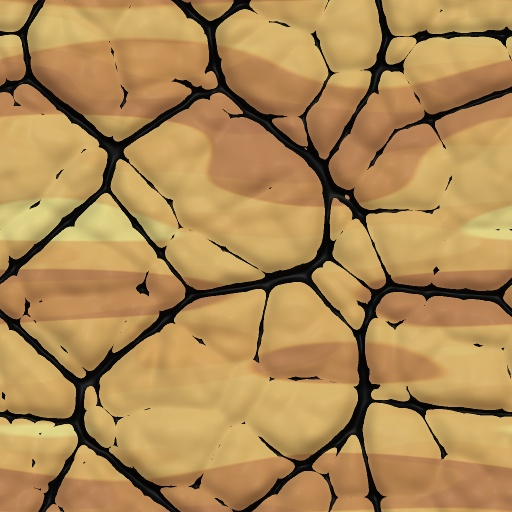
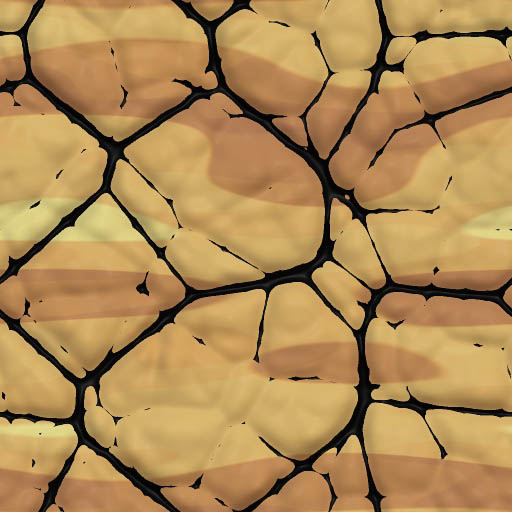
- created 3D-Effect

diff --git a/src/de/gemo/game/terrain/entities/World.java b/src/de/gemo/game/terrain/entities/World.java
@@ -32,7 +32,7 @@ public class World implements IRenderObject {
 
     public void createWorld(int width, int height) {
         try {
-            this.backgroundTexture = new TexData("resources/terrain/rock_terrain.jpg");
+            this.backgroundTexture = new TexData("resources/terrain/wood_terrain.jpg");
             this.grassTexture = new TexData("resources/grasses/grass.png");
         } catch (IOException e) {
             e.printStackTrace();
@@ -48,7 +48,7 @@ public class World implements IRenderObject {
 
         this.createPerlinWorld(terrainData);
         this.paintTerrainTexture(terrainData);
-        this.createGrass();
+        this.createEffects();
         this.createTexture();
     }
 
@@ -131,36 +131,119 @@ public class World implements IRenderObject {
                     this.textureBuffer.put(this.backgroundTexture.getR(x + (int) this.terrainSettings.getOffsetX(), y + (int) this.terrainSettings.getOffsetY()));
                     this.textureBuffer.put(this.backgroundTexture.getG(x + (int) this.terrainSettings.getOffsetX(), y + (int) this.terrainSettings.getOffsetY()));
                     this.textureBuffer.put(this.backgroundTexture.getB(x + (int) this.terrainSettings.getOffsetX(), y + (int) this.terrainSettings.getOffsetY()));
-                    this.textureBuffer.put(this.backgroundTexture.getA(x + (int) this.terrainSettings.getOffsetX(), y + (int) this.terrainSettings.getOffsetY()));
+                    this.textureBuffer.put((byte) 255);
                     this.textureBuffer.position(0);
                 }
             }
         }
     }
 
-    private void createGrass() {
-        List<Integer> xList = new ArrayList<Integer>();
-        List<Integer> yList = new ArrayList<Integer>();
+    private byte getBlendedValue(byte background, byte foreground, float alphaForeground) {
+        float floatBackground = (float) background / 255f;
+        float alphaBackground = 1f;
+        float floatForeground = (float) foreground / 255f;
+        // if (alphaForeground < 0) {
+        // return (byte) 255;
+        // }
+        // if (alphaForeground > 1) {
+        // return (byte) 255;
+        // }
+        float result = floatForeground * alphaForeground + floatBackground * alphaBackground * (1f - alphaForeground);
+        return (byte) (result * 255f);
+        // return (byte) ((background + foreground * alphaForeground) / 2f);
+    }
+
+    private void createEffects() {
+        List<Integer> xListGrass = new ArrayList<Integer>();
+        List<Integer> yListGrass = new ArrayList<Integer>();
+
+        List<Integer> xList3DRight = new ArrayList<Integer>();
+        List<Integer> yList3DRight = new ArrayList<Integer>();
+
+        List<Integer> xList3DLeft = new ArrayList<Integer>();
+        List<Integer> yList3DLeft = new ArrayList<Integer>();
+
         for (int y = this.getHeight() - 1; y >= 0; y--) {
             for (int x = 0; x < this.getWidth(); x++) {
                 boolean placeGrass_1 = !this.isPixelSolid(x, y - 1) && this.isPixelSolid(x, y);
                 if (placeGrass_1) {
-                    xList.add(x);
-                    yList.add(y);
+                    xListGrass.add(x);
+                    yListGrass.add(y);
+                }
+
+                boolean threeDEffectRight = (this.isPixelSolid(x, y) && !this.isPixelSolid(x + 1, y));
+                if (threeDEffectRight) {
+                    Vector2f normal = this.getNormal(x, y);
+                    if (Math.abs(normal.getY()) < 0.95d) {
+                        xList3DRight.add(x);
+                        yList3DRight.add(y);
+                    }
+                }
+
+                boolean threeDEffectLeft = (this.isPixelSolid(x, y) && !this.isPixelSolid(x - 1, y));
+                if (threeDEffectLeft) {
+                    Vector2f normal = this.getNormal(x, y);
+                    if (Math.abs(normal.getY()) < 0.95d) {
+                        xList3DLeft.add(x);
+                        yList3DLeft.add(y);
+                    }
                 }
             }
         }
 
-        for (int i = 0; i < xList.size(); i++) {
-            int x = xList.get(i);
-            int y = yList.get(i);
+        // 3D-Effect RIGHT
+        for (int i = 0; i < xList3DRight.size(); i++) {
+            int x = xList3DRight.get(i);
+            int y = yList3DRight.get(i);
+            for (int offX = 0; offX < 11; offX++) {
+                this.textureBuffer.position(this.getBufferPosition(x - offX, y));
+                byte r = this.textureBuffer.get();
+                byte g = this.textureBuffer.get();
+                byte b = this.textureBuffer.get();
+                this.textureBuffer.position(this.getBufferPosition(x - offX, y));
+                float alpha = 0.85f - (0.08f * offX);
+                r = this.getBlendedValue(r, (byte) (30), alpha);
+                g = this.getBlendedValue(g, (byte) (30), alpha);
+                b = this.getBlendedValue(b, (byte) (30), alpha);
+                this.textureBuffer.put(r);
+                this.textureBuffer.put(g);
+                this.textureBuffer.put(b);
+                this.textureBuffer.position(0);
+            }
+        }
+
+        // 3D-Effect LEFT
+        for (int i = 0; i < xList3DLeft.size(); i++) {
+            int x = xList3DLeft.get(i);
+            int y = yList3DLeft.get(i);
+            for (int offX = 0; offX < 6; offX++) {
+                this.textureBuffer.position(this.getBufferPosition(x + offX, y));
+                byte r = this.textureBuffer.get();
+                byte g = this.textureBuffer.get();
+                byte b = this.textureBuffer.get();
+                this.textureBuffer.position(this.getBufferPosition(x + offX, y));
+                float alpha = (0.02f * offX);
+                r = this.getBlendedValue(r, (byte) (255), alpha);
+                g = this.getBlendedValue(g, (byte) (255), alpha);
+                b = this.getBlendedValue(b, (byte) (255), alpha);
+                this.textureBuffer.put(r);
+                this.textureBuffer.put(g);
+                this.textureBuffer.put(b);
+                this.textureBuffer.position(0);
+            }
+        }
+
+        // grass
+        for (int i = 0; i < xListGrass.size(); i++) {
+            int x = xListGrass.get(i);
+            int y = yListGrass.get(i);
             for (int offY = 0; offY < this.grassTexture.getHeight(); offY++) {
                 if (!this.grassTexture.isFuchsia(x, offY)) {
                     this.textureBuffer.position(this.getBufferPosition(x, y + offY - 8));
                     this.textureBuffer.put(this.grassTexture.getR(x, offY));
                     this.textureBuffer.put(this.grassTexture.getG(x, offY));
                     this.textureBuffer.put(this.grassTexture.getB(x, offY));
-                    this.textureBuffer.put(this.grassTexture.getA(x, offY));
+                    this.textureBuffer.put((byte) 255);
                     this.textureBuffer.position(0);
                 }
             }
@@ -227,7 +310,7 @@ public class World implements IRenderObject {
                         this.textureBuffer.put(this.backgroundTexture.getR(mX + (int) this.terrainSettings.getOffsetX(), mY + (int) this.terrainSettings.getOffsetY()));
                         this.textureBuffer.put(this.backgroundTexture.getG(mX + (int) this.terrainSettings.getOffsetX(), mY + (int) this.terrainSettings.getOffsetY()));
                         this.textureBuffer.put(this.backgroundTexture.getB(mX + (int) this.terrainSettings.getOffsetX(), mY + (int) this.terrainSettings.getOffsetY()));
-                        this.textureBuffer.put(this.backgroundTexture.getA(mX + (int) this.terrainSettings.getOffsetX(), mY + (int) this.terrainSettings.getOffsetY()));
+                        this.textureBuffer.put((byte) 255);
                         this.textureBuffer.position(0);
                     }
                 }

diff --git a/src/de/gemo/game/terrain/utils/TexData.java b/src/de/gemo/game/terrain/utils/TexData.java
@@ -1,6 +1,5 @@
 package de.gemo.game.terrain.utils;
 
-import java.awt.*;
 import java.awt.image.*;
 import java.io.*;
 
@@ -8,7 +7,7 @@ import javax.imageio.*;
 
 public class TexData {
 
-    private Color[][] rgb;
+    private int[][] rgb;
 
     public TexData(String fileName) throws IOException {
         BufferedImage image = ImageIO.read(new File(fileName));
@@ -16,15 +15,15 @@ public class TexData {
     }
 
     private void loadData(BufferedImage image) {
-        this.rgb = new Color[image.getWidth()][image.getHeight()];
+        this.rgb = new int[image.getWidth()][image.getHeight()];
         for (int y = 0; y < this.rgb[0].length; y++) {
             for (int x = 0; x < this.rgb.length; x++) {
-                this.rgb[x][y] = new Color(image.getRGB(x, y));
+                this.rgb[x][y] = image.getRGB(x, y);
             }
         }
     }
 
-    public Color getColor(int x, int y) {
+    public int getRGB(int x, int y) {
         x = x % rgb.length;
         y = y % rgb[0].length;
         return this.rgb[x][y];
@@ -33,25 +32,22 @@ public class TexData {
     public byte getR(int x, int y) {
         x = x % rgb.length;
         y = y % rgb[0].length;
-        return (byte) this.rgb[x][y].getRed();
+        int red = (this.rgb[x][y] >> 16) & 0xFF;
+        return (byte) (red);
     }
 
     public byte getG(int x, int y) {
         x = x % rgb.length;
         y = y % rgb[0].length;
-        return (byte) this.rgb[x][y].getGreen();
+        int green = (this.rgb[x][y] >> 8) & 0xFF;
+        return (byte) green;
     }
 
     public byte getB(int x, int y) {
         x = x % rgb.length;
         y = y % rgb[0].length;
-        return (byte) this.rgb[x][y].getBlue();
-    }
-
-    public byte getA(int x, int y) {
-        x = x % rgb.length;
-        y = y % rgb[0].length;
-        return (byte) this.rgb[x][y].getAlpha();
+        int blue = this.rgb[x][y] & 0xFF;
+        return (byte) blue;
     }
 
     public boolean isFuchsia(final int x, final int y) {

diff --git a/src/de/gemo/game/terrain/core/TerrainCore.java b/src/de/gemo/game/terrain/core/TerrainCore.java
@@ -74,7 +74,6 @@ public class TerrainCore extends GameEngine {
             int midX = (int) ((MouseManager.INSTANCE.getCurrentX() - (int) offset.getX()) * (1f / this.scale));
             int midY = (int) ((MouseManager.INSTANCE.getCurrentY() - (int) offset.getY()) * (1f / this.scale));
             FontManager.getStandardFont().drawString(20, 50, "Mouse: " + midX + " / " + midY);
-
         }
         glPopMatrix();
 
@@ -91,8 +90,10 @@ public class TerrainCore extends GameEngine {
         this.physicsHandler.updateAll(delta);
 
         // center camera
-        this.offset.setX(-((this.player.getPosition().getX() * scale) - (this.VIEW_WIDTH / 2f)));
-        this.offset.setY(-((this.player.getPosition().getY() * scale) - (this.VIEW_HEIGHT / 2f)));
+        // this.offset.setX(-((this.player.getPosition().getX() * scale) -
+        // (this.VIEW_WIDTH / 2f)));
+        // this.offset.setY(-((this.player.getPosition().getY() * scale) -
+        // (this.VIEW_HEIGHT / 2f)));
     }
 
     @Override
@@ -141,8 +142,8 @@ public class TerrainCore extends GameEngine {
             }
         } else {
             this.scale -= 0.05f;
-            if (this.scale < 0.7f) {
-                this.scale = 0.7f;
+            if (this.scale < 0.3f) {
+                this.scale = 0.3f;
             }
         }
     }

diff --git a/src/de/gemo/game/terrain/handler/PhysicsHandler.java b/src/de/gemo/game/terrain/handler/PhysicsHandler.java
@@ -2,7 +2,6 @@ package de.gemo.game.terrain.handler;
 
 import java.util.*;
 
-import de.gemo.game.terrain.core.*;
 import de.gemo.game.terrain.entities.*;
 
 public class PhysicsHandler {
